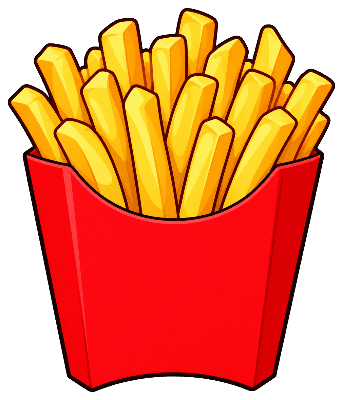
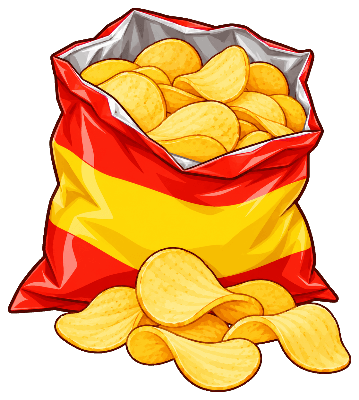
CHIPS (item 062): American potato chips in a bag, not fries; brief and placeholder glyph

diff --git a/content/art/prompts.ts b/content/art/prompts.ts
@@ -518,7 +518,8 @@ const PICTURES: Record<string, string> = {
   ring: 'a ring: one gold finger ring with a big sparkly blue gem on top',
   wing: 'a wing: one big white feathery bird wing, spread open, alone; no bird, not an angel',
   shell: 'a shell: one pink and cream spiral seashell, the kind found on a beach',
-  chips: 'chips: a red paper carton of golden potato chips (fries)',
+  // Item 062: chips are American chips, a bag of potato chips; never fries.
+  chips: 'chips: an open crinkly snack bag of thin round golden potato chips, a few wavy chips spilling out in front; American potato chips, NOT french fries, no fries carton',
   bush: 'a bush: one round leafy green garden bush, alone; not a tree, no flowers',
   thumb: 'a thumb: a cartoon hand giving a big thumbs up, the thumb clearly up',
   lamb: 'a lamb: a fluffy white baby sheep, small and woolly, standing side-on; a baby, not a big sheep',

diff --git a/content/phonics/bank.ts b/content/phonics/bank.ts
@@ -176,7 +176,7 @@ const ENTRIES: BankEntry[] = [
   T('egg', '🥚', NEW_056), T('bell', '🔔', NEW_056), T('doll', '🎎', NEW_056), T('tap', '🚰', NEW_056),
   T('elf', '🧝', NEW_056), T('grass', '🌾', NEW_056), T('glass', '🥤', NEW_056), T('sink', '🧽', NEW_056),
   T('king', '🤴', NEW_056), T('ring', '💍', NEW_056), T('wing', '🦅', NEW_056), T('shell', '🐚', NEW_056),
-  T('chips', '🍟', NEW_056), T('bush', '🌳', NEW_056),
+  T('chips', '🥔', NEW_056), T('bush', '🌳', NEW_056),
   T('thumb', '👍', { ...NEW_056, spelled: [['th', 'th'], ['u', 'u'], ['mb', 'm']] }),
   T('lamb', '🐑', { ...NEW_056, spelled: [['l', 'l'], ['a', 'a'], ['mb', 'm']] }),
   A('quest', '🧭', NEW_056),
